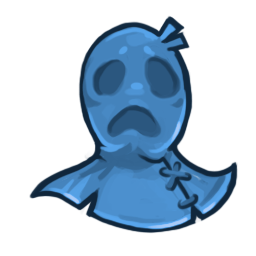
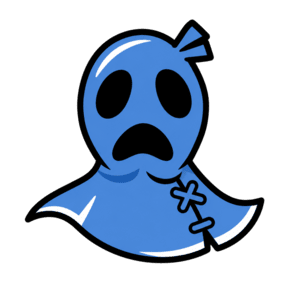
Update Shroud assets, locales and portal visuals
Modify Shroud and Arcanist role icons and update Shroud resource (TouMegaChujoweExtension/Resources). Adjust Shroud icon load scale to 180f in TouExtensionIcons.cs. Rewrite Shroud role text strings in en_US and pl_PL for clearer ability/intro/wiki descriptions and change option labels from "Crewmate & Neutral/Impostor" to "Crewmate + Neutral/Impostor". Remove several unused role and modifier header images. Simplify PortalmakerSystem visibility logic so portal sprites/renderers are enabled more broadly (removed some player-specific checks such as CanPlayerUsePortal).

diff --git a/TouMegaChujoweExtension/Assets/TouExtensionIcons.cs b/TouMegaChujoweExtension/Assets/TouExtensionIcons.cs
@@ -29,7 +29,7 @@ namespace TouMegaChujoweExtension.Assets
         public static LoadableAsset<Sprite> JokerRoleIcon { get; } = new LoadableResourceAsset("TouMegaChujoweExtension.Resources.Joker_Role_Icon.png", 100f);
         public static LoadableAsset<Sprite> PopeRoleIcon { get; } = new LoadableResourceAsset("TouMegaChujoweExtension.Resources.Pope_Role_Icon.png", 200f);
         public static LoadableAsset<Sprite> BountyHunterRoleIcon { get; } = new LoadableResourceAsset("TouMegaChujoweExtension.Resources.BountyHunter_Role_Icon.png", 100f);
-        public static LoadableAsset<Sprite> ShroudRoleIcon { get; } = new LoadableResourceAsset("TouMegaChujoweExtension.Resources.Shroud_Role_Icon.png", 200f);
+        public static LoadableAsset<Sprite> ShroudRoleIcon { get; } = new LoadableResourceAsset("TouMegaChujoweExtension.Resources.Shroud_Role_Icon.png", 180f);
         public static LoadableAsset<Sprite> DoppelgangerRoleIcon { get; } = new LoadableResourceAsset("TouMegaChujoweExtension.Resources.Doppelganger_Icon.png", 200f);
         public static LoadableAsset<Sprite> BakerRoleIcon { get; } = new LoadableResourceAsset("TouMegaChujoweExtension.Resources.Baker_Role_Icon.png", 200f);
         //impostors

diff --git a/TouMegaChujoweExtension/Modules/PortalmakerSystem.cs b/TouMegaChujoweExtension/Modules/PortalmakerSystem.cs
@@ -93,10 +93,7 @@ public static class PortalmakerSystem
                 if (sr != null)
                 {
                     sr.color = Color.white;
-                    var local = PlayerControl.LocalPlayer;
-                    bool isPortalmaker = local != null && local.Data != null &&
-                        (local.GetRole<PortalmakerRole>() != null || local.Data.Role is PortalmakerRole);
-                    sr.enabled = isPortalmaker || (local != null && CanPlayerUsePortal(local));
+                    sr.enabled = true;
                 }
             }
         }
@@ -158,7 +155,7 @@ public static class PortalmakerSystem
         var local = PlayerControl.LocalPlayer;
         bool isPortalmaker = local != null && local.Data != null &&
             (local.GetRole<PortalmakerRole>() != null || local.Data.Role is PortalmakerRole);
-        renderer.enabled = isPortalmaker || (isActive && local != null && CanPlayerUsePortal(local));
+        renderer.enabled = isPortalmaker || isActive;
 
         return go;
     }
